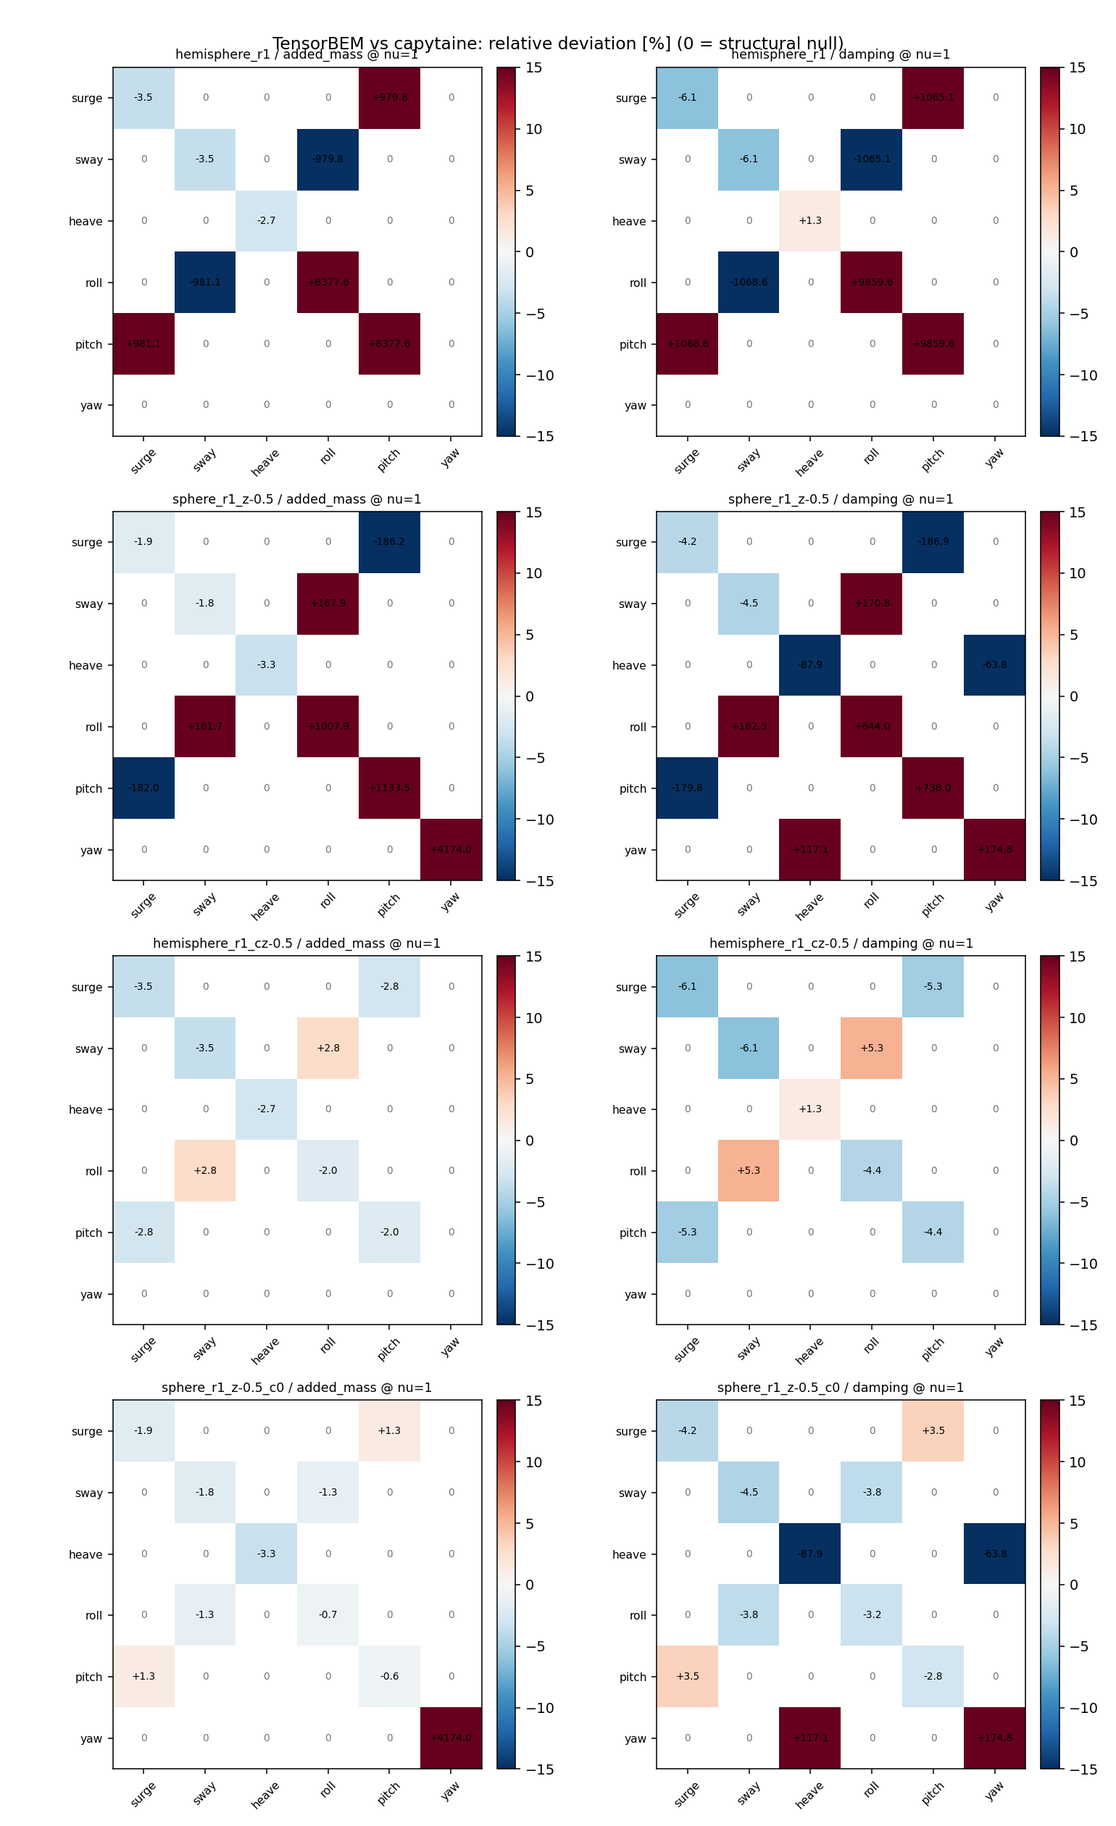
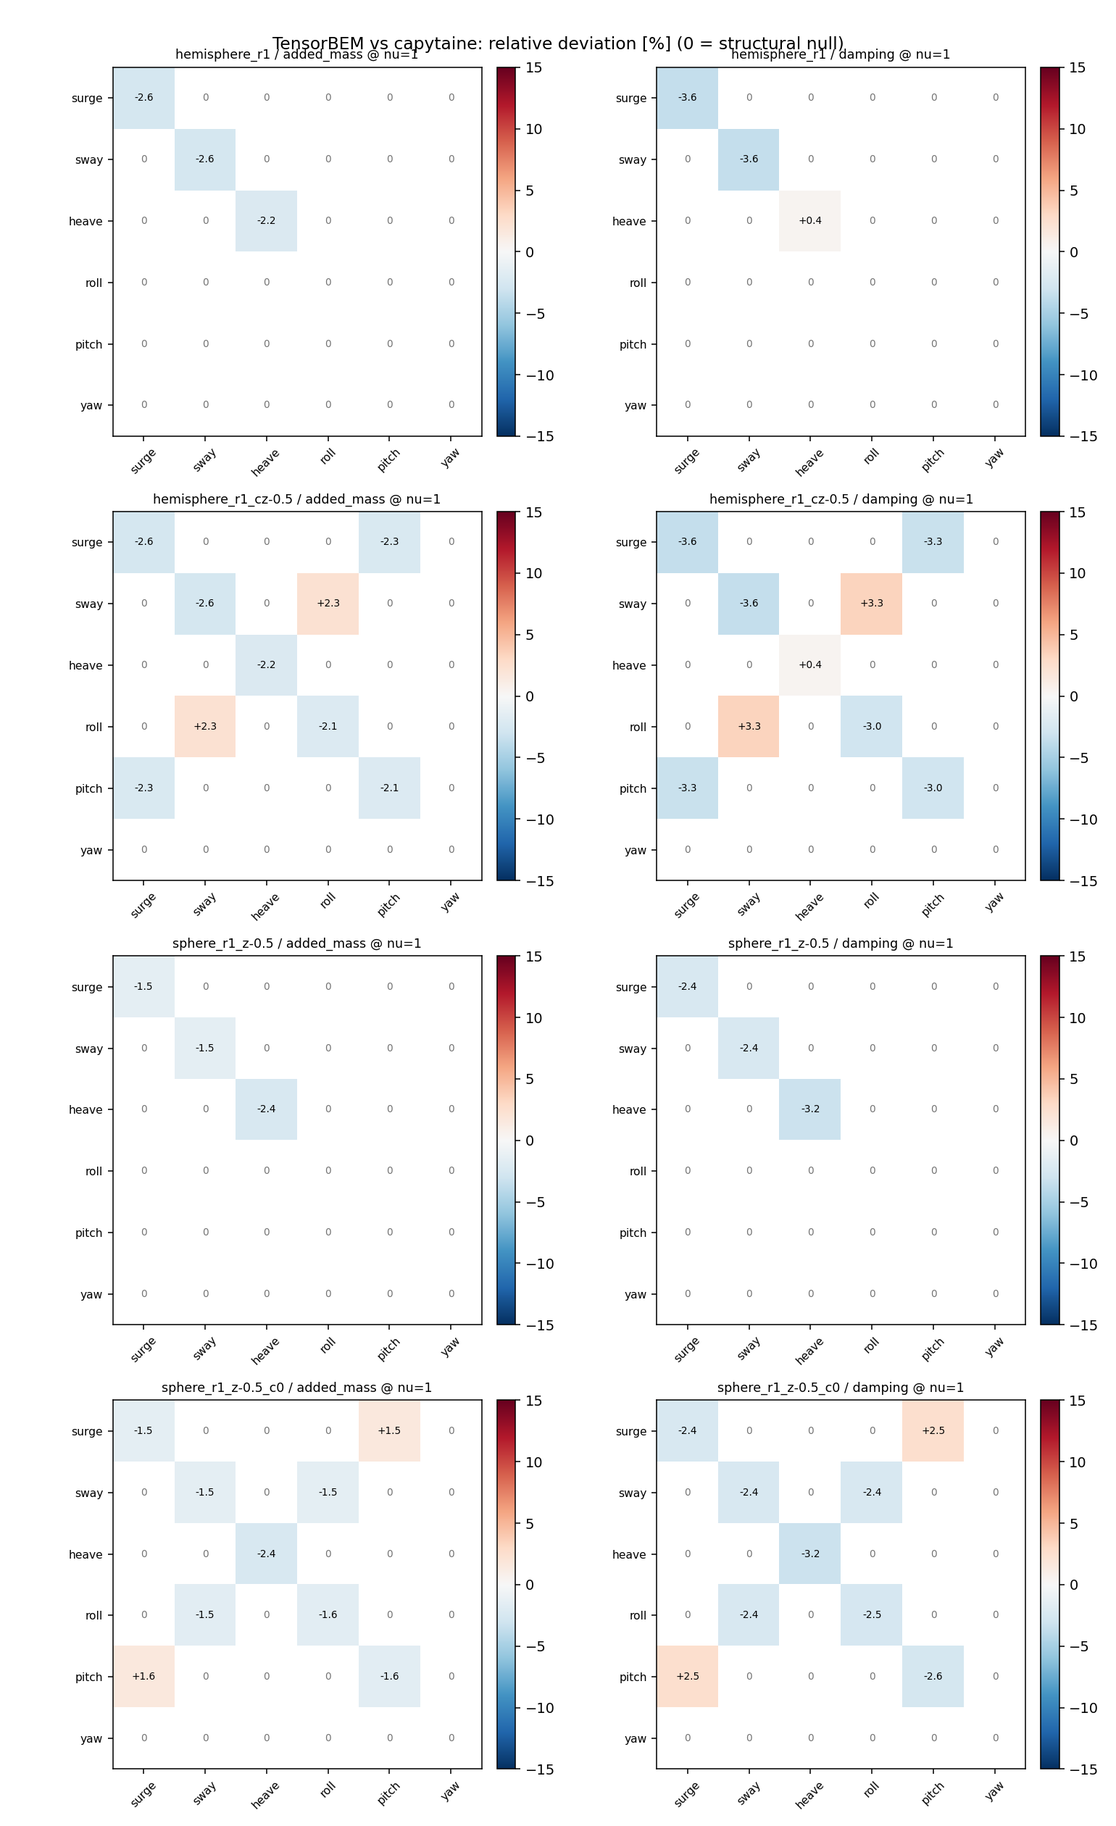
m21175: matured mission deliverables

diff --git a/src/tensorbem/benchmarks/capytaine_crosscheck_r2.py b/src/tensorbem/benchmarks/capytaine_crosscheck_r2.py
@@ -1176,7 +1176,7 @@ def render_document(study: dict[str, Any]) -> str:
             comparison["verdict"],
             TOL_DIAGONAL,
             TOL_OFFDIAGONAL,
-            100.0 * comparison["worst_active_relative"],
+            comparison["worst_active_relative"],
             comparison["worst_invariant_ratio"],
         )
     )
@@ -1231,7 +1231,7 @@ def render_document(study: dict[str, Any]) -> str:
                     entry["tensorbem"],
                     entry["capytaine"],
                     100.0 * entry["relative"],
-                    100.0 * entry["band"],
+                    entry["band"],
                 )
             )
         add("")
@@ -1372,7 +1372,7 @@ def render_document(study: dict[str, Any]) -> str:
             "**收敛到零的离散残差**还是**收敛到非零极限的实现错误**。"
         )
         add("")
-        add("| case | level | 面板 | ‖mode_roll‖ | ‖mode_yaw‖ | A_roll | A_surge,pitch | 最大 \|A\|/(rho L^k) |")
+        add("| case | level | 面板 | ‖mode_roll‖ | ‖mode_yaw‖ | A_roll | A_surge,pitch | 最大 \\|A\\|/(rho L^k) |")
         add("|---|---:|---:|---:|---:|---:|---:|---:|")
         for row in degeneracy["cases"]:
             for level in row["levels"]:

diff --git a/docs/capytaine_crosscheck_r2.md b/docs/capytaine_crosscheck_r2.md
@@ -32,7 +32,7 @@
 | sphere_r1_z-0.5 | 1026 | 1120 | 17 | 37 | 162 | 0 | 6.52% | 1.52e+00 | FAIL |
 | sphere_r1_z-0.5_c0 | 1026 | 1120 | 53 | 97 | 66 | 0 | 6.71% | 1.73e-02 | FAIL |
 
-总计 142 个 active 项、266 个相对阈下的结构零项与 456 个声明过的恒零项（不变式，上界 1%·ρL^k）被逐项判定，总体判定 **FAIL**（对角带 5%、耦合带 10%）；最差 active 相对偏差 670.52%，最差不变式比 1.52e+00。
+总计 142 个 active 项、266 个相对阈下的结构零项与 456 个声明过的恒零项（不变式，上界 1%·ρL^k）被逐项判定，总体判定 **FAIL**（对角带 5%、耦合带 10%）；最差 active 相对偏差 6.71%，最差不变式比 1.52e+00。
 
 ### 3.2 附加质量矩阵（六自由度，nu = 1 m^-1）
 
@@ -130,163 +130,163 @@
 
 | nu | quantity | (i,j) | TensorBEM | capytaine | 相对偏差 | 登记带 |
 |---:|---|---|---:|---:|---:|---:|
-| 0.5 | added_mass | (surge,surge) | 1375.9 | 1422.8 | -3.30% | 500% |
-| 0.5 | added_mass | (sway,sway) | 1375.9 | 1422.8 | -3.30% | 500% |
-| 0.5 | added_mass | (heave,heave) | 1256.8 | 1278.7 | -1.71% | 500% |
-| 0.5 | damping | (surge,surge) | 464.41 | 486.28 | -4.50% | 500% |
-| 0.5 | damping | (sway,sway) | 464.41 | 486.28 | -4.50% | 500% |
-| 0.5 | damping | (heave,heave) | 1611.3 | 1621.3 | -0.61% | 500% |
-| 1 | added_mass | (surge,surge) | 1228.1 | 1260.7 | -2.59% | 500% |
-| 1 | added_mass | (sway,sway) | 1228.1 | 1260.7 | -2.59% | 500% |
-| 1 | added_mass | (heave,heave) | 918.07 | 938.49 | -2.18% | 500% |
-| 1 | damping | (surge,surge) | 2355 | 2442.3 | -3.58% | 500% |
-| 1 | damping | (sway,sway) | 2355 | 2442.3 | -3.58% | 500% |
-| 1 | damping | (heave,heave) | 1674.9 | 1668.4 | +0.39% | 500% |
-| 2 | added_mass | (surge,surge) | 536.36 | 550.69 | -2.60% | 500% |
-| 2 | added_mass | (sway,sway) | 536.36 | 550.69 | -2.60% | 500% |
-| 2 | added_mass | (heave,heave) | 829.35 | 851.17 | -2.56% | 500% |
-| 2 | damping | (surge,surge) | 3236.6 | 3292.3 | -1.69% | 500% |
-| 2 | damping | (sway,sway) | 3236.6 | 3292.3 | -1.69% | 500% |
-| 2 | damping | (heave,heave) | 990.95 | 936.46 | +5.82% | 500% |
+| 0.5 | added_mass | (surge,surge) | 1375.9 | 1422.8 | -3.30% | 5% |
+| 0.5 | added_mass | (sway,sway) | 1375.9 | 1422.8 | -3.30% | 5% |
+| 0.5 | added_mass | (heave,heave) | 1256.8 | 1278.7 | -1.71% | 5% |
+| 0.5 | damping | (surge,surge) | 464.41 | 486.28 | -4.50% | 5% |
+| 0.5 | damping | (sway,sway) | 464.41 | 486.28 | -4.50% | 5% |
+| 0.5 | damping | (heave,heave) | 1611.3 | 1621.3 | -0.61% | 5% |
+| 1 | added_mass | (surge,surge) | 1228.1 | 1260.7 | -2.59% | 5% |
+| 1 | added_mass | (sway,sway) | 1228.1 | 1260.7 | -2.59% | 5% |
+| 1 | added_mass | (heave,heave) | 918.07 | 938.49 | -2.18% | 5% |
+| 1 | damping | (surge,surge) | 2355 | 2442.3 | -3.58% | 5% |
+| 1 | damping | (sway,sway) | 2355 | 2442.3 | -3.58% | 5% |
+| 1 | damping | (heave,heave) | 1674.9 | 1668.4 | +0.39% | 5% |
+| 2 | added_mass | (surge,surge) | 536.36 | 550.69 | -2.60% | 5% |
+| 2 | added_mass | (sway,sway) | 536.36 | 550.69 | -2.60% | 5% |
+| 2 | added_mass | (heave,heave) | 829.35 | 851.17 | -2.56% | 5% |
+| 2 | damping | (surge,surge) | 3236.6 | 3292.3 | -1.69% | 5% |
+| 2 | damping | (sway,sway) | 3236.6 | 3292.3 | -1.69% | 5% |
+| 2 | damping | (heave,heave) | 990.95 | 936.46 | +5.82% | 5% |
 
 **hemisphere_r1_cz-0.5**
 
 | nu | quantity | (i,j) | TensorBEM | capytaine | 相对偏差 | 登记带 |
 |---:|---|---|---:|---:|---:|---:|
-| 0.5 | added_mass | (surge,surge) | 1375.9 | 1422.8 | -3.30% | 500% |
-| 0.5 | added_mass | (surge,pitch) | 689.12 | 710.86 | -3.06% | 1000% |
-| 0.5 | added_mass | (sway,sway) | 1375.9 | 1422.8 | -3.30% | 500% |
-| 0.5 | added_mass | (sway,roll) | -689.12 | -710.86 | +3.06% | 1000% |
-| 0.5 | added_mass | (heave,heave) | 1256.8 | 1278.7 | -1.71% | 500% |
-| 0.5 | added_mass | (roll,sway) | -689.12 | -710.86 | +3.06% | 1000% |
-| 0.5 | added_mass | (roll,roll) | 345.16 | 355.15 | -2.81% | 500% |
-| 0.5 | added_mass | (pitch,surge) | 689.12 | 710.86 | -3.06% | 1000% |
-| 0.5 | added_mass | (pitch,pitch) | 345.16 | 355.15 | -2.81% | 500% |
-| 0.5 | damping | (surge,surge) | 464.41 | 486.28 | -4.50% | 500% |
-| 0.5 | damping | (surge,pitch) | 232.64 | 242.94 | -4.24% | 1000% |
-| 0.5 | damping | (sway,sway) | 464.41 | 486.28 | -4.50% | 500% |
-| 0.5 | damping | (sway,roll) | -232.64 | -242.94 | +4.24% | 1000% |
-| 0.5 | damping | (heave,heave) | 1611.3 | 1621.3 | -0.61% | 500% |
-| 0.5 | damping | (roll,sway) | -232.64 | -242.94 | +4.24% | 1000% |
-| 0.5 | damping | (roll,roll) | 116.54 | 121.37 | -3.98% | 500% |
-| 0.5 | damping | (pitch,surge) | 232.64 | 242.94 | -4.24% | 1000% |
-| 0.5 | damping | (pitch,pitch) | 116.54 | 121.37 | -3.98% | 500% |
-| 1 | added_mass | (surge,surge) | 1228.1 | 1260.7 | -2.59% | 500% |
-| 1 | added_mass | (surge,pitch) | 615.17 | 629.87 | -2.33% | 1000% |
-| 1 | added_mass | (sway,sway) | 1228.1 | 1260.7 | -2.59% | 500% |
-| 1 | added_mass | (sway,roll) | -615.17 | -629.87 | +2.33% | 1000% |
-| 1 | added_mass | (heave,heave) | 918.07 | 938.49 | -2.18% | 500% |
-| 1 | added_mass | (roll,sway) | -615.17 | -629.87 | +2.33% | 1000% |
-| 1 | added_mass | (roll,roll) | 308.16 | 314.69 | -2.08% | 500% |
-| 1 | added_mass | (pitch,surge) | 615.17 | 629.87 | -2.33% | 1000% |
-| 1 | added_mass | (pitch,pitch) | 308.16 | 314.69 | -2.08% | 500% |
-| 1 | damping | (surge,surge) | 2355 | 2442.3 | -3.58% | 500% |
-| 1 | damping | (surge,pitch) | 1180 | 1220.2 | -3.29% | 1000% |
-| 1 | damping | (sway,sway) | 2355 | 2442.3 | -3.58% | 500% |
-| 1 | damping | (sway,roll) | -1180 | -1220.2 | +3.29% | 1000% |
-| 1 | damping | (heave,heave) | 1674.9 | 1668.4 | +0.39% | 500% |
-| 1 | damping | (roll,sway) | -1180 | -1220.2 | +3.29% | 1000% |
-| 1 | damping | (roll,roll) | 591.28 | 609.57 | -3.00% | 500% |
-| 1 | damping | (pitch,surge) | 1180 | 1220.2 | -3.29% | 1000% |
-| 1 | damping | (pitch,pitch) | 591.28 | 609.57 | -3.00% | 500% |
-| 2 | added_mass | (surge,surge) | 536.36 | 550.69 | -2.60% | 500% |
-| 2 | added_mass | (surge,pitch) | 268.54 | 275.15 | -2.40% | 1000% |
-| 2 | added_mass | (sway,sway) | 536.36 | 550.69 | -2.60% | 500% |
-| 2 | added_mass | (sway,roll) | -268.54 | -275.15 | +2.40% | 1000% |
-| 2 | added_mass | (heave,heave) | 829.35 | 851.17 | -2.56% | 500% |
-| 2 | added_mass | (roll,sway) | -268.53 | -275.15 | +2.40% | 1000% |
-| 2 | added_mass | (roll,roll) | 134.45 | 137.48 | -2.20% | 500% |
-| 2 | added_mass | (pitch,surge) | 268.53 | 275.15 | -2.40% | 1000% |
-| 2 | added_mass | (pitch,pitch) | 134.45 | 137.48 | -2.20% | 500% |
-| 2 | damping | (surge,surge) | 3236.6 | 3292.3 | -1.69% | 500% |
-| 2 | damping | (surge,pitch) | 1622.6 | 1644.8 | -1.35% | 1000% |
-| 2 | damping | (sway,sway) | 3236.6 | 3292.3 | -1.69% | 500% |
-| 2 | damping | (sway,roll) | -1622.6 | -1644.8 | +1.35% | 1000% |
-| 2 | damping | (heave,heave) | 990.95 | 936.46 | +5.82% | 500% |
-| 2 | damping | (roll,sway) | -1622.6 | -1644.8 | +1.35% | 1000% |
-| 2 | damping | (roll,roll) | 813.46 | 821.74 | -1.01% | 500% |
-| 2 | damping | (pitch,surge) | 1622.6 | 1644.8 | -1.35% | 1000% |
-| 2 | damping | (pitch,pitch) | 813.46 | 821.74 | -1.01% | 500% |
+| 0.5 | added_mass | (surge,surge) | 1375.9 | 1422.8 | -3.30% | 5% |
+| 0.5 | added_mass | (surge,pitch) | 689.12 | 710.86 | -3.06% | 10% |
+| 0.5 | added_mass | (sway,sway) | 1375.9 | 1422.8 | -3.30% | 5% |
+| 0.5 | added_mass | (sway,roll) | -689.12 | -710.86 | +3.06% | 10% |
+| 0.5 | added_mass | (heave,heave) | 1256.8 | 1278.7 | -1.71% | 5% |
+| 0.5 | added_mass | (roll,sway) | -689.12 | -710.86 | +3.06% | 10% |
+| 0.5 | added_mass | (roll,roll) | 345.16 | 355.15 | -2.81% | 5% |
+| 0.5 | added_mass | (pitch,surge) | 689.12 | 710.86 | -3.06% | 10% |
+| 0.5 | added_mass | (pitch,pitch) | 345.16 | 355.15 | -2.81% | 5% |
+| 0.5 | damping | (surge,surge) | 464.41 | 486.28 | -4.50% | 5% |
+| 0.5 | damping | (surge,pitch) | 232.64 | 242.94 | -4.24% | 10% |
+| 0.5 | damping | (sway,sway) | 464.41 | 486.28 | -4.50% | 5% |
+| 0.5 | damping | (sway,roll) | -232.64 | -242.94 | +4.24% | 10% |
+| 0.5 | damping | (heave,heave) | 1611.3 | 1621.3 | -0.61% | 5% |
+| 0.5 | damping | (roll,sway) | -232.64 | -242.94 | +4.24% | 10% |
+| 0.5 | damping | (roll,roll) | 116.54 | 121.37 | -3.98% | 5% |
+| 0.5 | damping | (pitch,surge) | 232.64 | 242.94 | -4.24% | 10% |
+| 0.5 | damping | (pitch,pitch) | 116.54 | 121.37 | -3.98% | 5% |
+| 1 | added_mass | (surge,surge) | 1228.1 | 1260.7 | -2.59% | 5% |
+| 1 | added_mass | (surge,pitch) | 615.17 | 629.87 | -2.33% | 10% |
+| 1 | added_mass | (sway,sway) | 1228.1 | 1260.7 | -2.59% | 5% |
+| 1 | added_mass | (sway,roll) | -615.17 | -629.87 | +2.33% | 10% |
+| 1 | added_mass | (heave,heave) | 918.07 | 938.49 | -2.18% | 5% |
+| 1 | added_mass | (roll,sway) | -615.17 | -629.87 | +2.33% | 10% |
+| 1 | added_mass | (roll,roll) | 308.16 | 314.69 | -2.08% | 5% |
+| 1 | added_mass | (pitch,surge) | 615.17 | 629.87 | -2.33% | 10% |
+| 1 | added_mass | (pitch,pitch) | 308.16 | 314.69 | -2.08% | 5% |
+| 1 | damping | (surge,surge) | 2355 | 2442.3 | -3.58% | 5% |
+| 1 | damping | (surge,pitch) | 1180 | 1220.2 | -3.29% | 10% |
+| 1 | damping | (sway,sway) | 2355 | 2442.3 | -3.58% | 5% |
+| 1 | damping | (sway,roll) | -1180 | -1220.2 | +3.29% | 10% |
+| 1 | damping | (heave,heave) | 1674.9 | 1668.4 | +0.39% | 5% |
+| 1 | damping | (roll,sway) | -1180 | -1220.2 | +3.29% | 10% |
+| 1 | damping | (roll,roll) | 591.28 | 609.57 | -3.00% | 5% |
+| 1 | damping | (pitch,surge) | 1180 | 1220.2 | -3.29% | 10% |
+| 1 | damping | (pitch,pitch) | 591.28 | 609.57 | -3.00% | 5% |
+| 2 | added_mass | (surge,surge) | 536.36 | 550.69 | -2.60% | 5% |
+| 2 | added_mass | (surge,pitch) | 268.54 | 275.15 | -2.40% | 10% |
+| 2 | added_mass | (sway,sway) | 536.36 | 550.69 | -2.60% | 5% |
+| 2 | added_mass | (sway,roll) | -268.54 | -275.15 | +2.40% | 10% |
+| 2 | added_mass | (heave,heave) | 829.35 | 851.17 | -2.56% | 5% |
+| 2 | added_mass | (roll,sway) | -268.53 | -275.15 | +2.40% | 10% |
+| 2 | added_mass | (roll,roll) | 134.45 | 137.48 | -2.20% | 5% |
+| 2 | added_mass | (pitch,surge) | 268.53 | 275.15 | -2.40% | 10% |
+| 2 | added_mass | (pitch,pitch) | 134.45 | 137.48 | -2.20% | 5% |
+| 2 | damping | (surge,surge) | 3236.6 | 3292.3 | -1.69% | 5% |
+| 2 | damping | (surge,pitch) | 1622.6 | 1644.8 | -1.35% | 10% |
+| 2 | damping | (sway,sway) | 3236.6 | 3292.3 | -1.69% | 5% |
+| 2 | damping | (sway,roll) | -1622.6 | -1644.8 | +1.35% | 10% |
+| 2 | damping | (heave,heave) | 990.95 | 936.46 | +5.82% | 5% |
+| 2 | damping | (roll,sway) | -1622.6 | -1644.8 | +1.35% | 10% |
+| 2 | damping | (roll,roll) | 813.46 | 821.74 | -1.01% | 5% |
+| 2 | damping | (pitch,surge) | 1622.6 | 1644.8 | -1.35% | 10% |
+| 2 | damping | (pitch,pitch) | 813.46 | 821.74 | -1.01% | 5% |
 
 **sphere_r1_z-0.5**
 
 | nu | quantity | (i,j) | TensorBEM | capytaine | 相对偏差 | 登记带 |
 |---:|---|---|---:|---:|---:|---:|
-| 0.5 | added_mass | (surge,surge) | 3152.9 | 3247.2 | -2.90% | 500% |
-| 0.5 | added_mass | (sway,sway) | 3153.1 | 3247.2 | -2.90% | 500% |
-| 0.5 | added_mass | (heave,heave) | 1129.4 | 1157.4 | -2.42% | 500% |
-| 0.5 | damping | (surge,surge) | 1623.6 | 1697 | -4.32% | 500% |
-| 0.5 | damping | (sway,sway) | 1623.8 | 1697 | -4.31% | 500% |
-| 0.5 | damping | (heave,heave) | 267.33 | 275.27 | -2.88% | 500% |
-| 1 | added_mass | (surge,surge) | 2071.8 | 2102.6 | -1.47% | 500% |
-| 1 | added_mass | (sway,sway) | 2071.5 | 2102.6 | -1.48% | 500% |
-| 1 | added_mass | (heave,heave) | 1200.5 | 1229.7 | -2.37% | 500% |
-| 1 | damping | (surge,surge) | 7598 | 7785.6 | -2.41% | 500% |
-| 1 | damping | (sway,sway) | 7599.1 | 7785.6 | -2.40% | 500% |
-| 2 | added_mass | (surge,surge) | 327.89 | 350.66 | -6.49% | 500% |
-| 2 | added_mass | (sway,sway) | 327.79 | 350.66 | -6.52% | 500% |
-| 2 | added_mass | (heave,heave) | 1252.5 | 1284 | -2.45% | 500% |
-| 2 | damping | (surge,surge) | 5074.3 | 5137.4 | -1.23% | 500% |
-| 2 | damping | (sway,sway) | 5073.4 | 5137.4 | -1.24% | 500% |
-| 2 | damping | (heave,heave) | 401.01 | 417.3 | -3.90% | 500% |
+| 0.5 | added_mass | (surge,surge) | 3152.9 | 3247.2 | -2.90% | 5% |
+| 0.5 | added_mass | (sway,sway) | 3153.1 | 3247.2 | -2.90% | 5% |
+| 0.5 | added_mass | (heave,heave) | 1129.4 | 1157.4 | -2.42% | 5% |
+| 0.5 | damping | (surge,surge) | 1623.6 | 1697 | -4.32% | 5% |
+| 0.5 | damping | (sway,sway) | 1623.8 | 1697 | -4.31% | 5% |
+| 0.5 | damping | (heave,heave) | 267.33 | 275.27 | -2.88% | 5% |
+| 1 | added_mass | (surge,surge) | 2071.8 | 2102.6 | -1.47% | 5% |
+| 1 | added_mass | (sway,sway) | 2071.5 | 2102.6 | -1.48% | 5% |
+| 1 | added_mass | (heave,heave) | 1200.5 | 1229.7 | -2.37% | 5% |
+| 1 | damping | (surge,surge) | 7598 | 7785.6 | -2.41% | 5% |
+| 1 | damping | (sway,sway) | 7599.1 | 7785.6 | -2.40% | 5% |
+| 2 | added_mass | (surge,surge) | 327.89 | 350.66 | -6.49% | 5% |
+| 2 | added_mass | (sway,sway) | 327.79 | 350.66 | -6.52% | 5% |
+| 2 | added_mass | (heave,heave) | 1252.5 | 1284 | -2.45% | 5% |
+| 2 | damping | (surge,surge) | 5074.3 | 5137.4 | -1.23% | 5% |
+| 2 | damping | (sway,sway) | 5073.4 | 5137.4 | -1.24% | 5% |
+| 2 | damping | (heave,heave) | 401.01 | 417.3 | -3.90% | 5% |
 
 **sphere_r1_z-0.5_c0**
 
 | nu | quantity | (i,j) | TensorBEM | capytaine | 相对偏差 | 登记带 |
 |---:|---|---|---:|---:|---:|---:|
-| 0.5 | added_mass | (surge,surge) | 3152.9 | 3247.2 | -2.90% | 500% |
-| 0.5 | added_mass | (surge,pitch) | -1579.7 | -1628.1 | +2.97% | 1000% |
-| 0.5 | added_mass | (sway,sway) | 3153.1 | 3247.2 | -2.90% | 500% |
-| 0.5 | added_mass | (sway,roll) | 1580.2 | 1628.1 | -2.94% | 1000% |
-| 0.5 | added_mass | (heave,heave) | 1129.4 | 1157.4 | -2.42% | 500% |
-| 0.5 | added_mass | (roll,sway) | 1580.2 | 1628.2 | -2.95% | 1000% |
-| 0.5 | added_mass | (roll,roll) | 791.97 | 816.38 | -2.99% | 500% |
-| 0.5 | added_mass | (pitch,surge) | -1579.7 | -1628.2 | +2.98% | 1000% |
-| 0.5 | added_mass | (pitch,pitch) | 791.46 | 816.38 | -3.05% | 500% |
-| 0.5 | damping | (surge,surge) | 1623.6 | 1697 | -4.32% | 500% |
-| 0.5 | damping | (surge,pitch) | -813.45 | -850.81 | +4.39% | 1000% |
-| 0.5 | damping | (sway,sway) | 1623.8 | 1697 | -4.31% | 500% |
-| 0.5 | damping | (sway,roll) | 813.8 | 850.81 | -4.35% | 1000% |
-| 0.5 | damping | (heave,heave) | 267.33 | 275.27 | -2.88% | 500% |
-| 0.5 | damping | (roll,sway) | 813.8 | 850.91 | -4.36% | 1000% |
-| 0.5 | damping | (roll,roll) | 407.85 | 426.62 | -4.40% | 500% |
-| 0.5 | damping | (pitch,surge) | -813.45 | -850.91 | +4.40% | 1000% |
-| 0.5 | damping | (pitch,pitch) | 407.54 | 426.62 | -4.47% | 500% |
-| 1 | added_mass | (surge,surge) | 2071.8 | 2102.6 | -1.47% | 500% |
-| 1 | added_mass | (surge,pitch) | -1038.4 | -1054.7 | +1.54% | 1000% |
-| 1 | added_mass | (sway,sway) | 2071.5 | 2102.6 | -1.48% | 500% |
-| 1 | added_mass | (sway,roll) | 1038.6 | 1054.7 | -1.52% | 1000% |
-| 1 | added_mass | (heave,heave) | 1200.5 | 1229.7 | -2.37% | 500% |
-| 1 | added_mass | (roll,sway) | 1038.6 | 1054.8 | -1.53% | 1000% |
-| 1 | added_mass | (roll,roll) | 520.77 | 529.11 | -1.58% | 500% |
-| 1 | added_mass | (pitch,surge) | -1038.4 | -1054.8 | +1.55% | 1000% |
-| 1 | added_mass | (pitch,pitch) | 520.49 | 529.11 | -1.63% | 500% |
-| 1 | damping | (surge,surge) | 7598 | 7785.6 | -2.41% | 500% |
-| 1 | damping | (surge,pitch) | -3809.4 | -3906.6 | +2.49% | 1000% |
-| 1 | damping | (sway,sway) | 7599.1 | 7785.6 | -2.40% | 500% |
-| 1 | damping | (sway,roll) | 3811.5 | 3906.6 | -2.43% | 1000% |
-| 1 | damping | (roll,sway) | 3811.6 | 3907.3 | -2.45% | 1000% |
-| 1 | damping | (roll,roll) | 1911.8 | 1960.6 | -2.49% | 500% |
-| 1 | damping | (pitch,surge) | -3809.4 | -3907.3 | +2.50% | 1000% |
-| 1 | damping | (pitch,pitch) | 1909.9 | 1960.6 | -2.58% | 500% |
-| 2 | added_mass | (surge,surge) | 327.89 | 350.66 | -6.49% | 500% |
-| 2 | added_mass | (surge,pitch) | -163.44 | -174.85 | +6.53% | 1000% |
-| 2 | added_mass | (sway,sway) | 327.79 | 350.66 | -6.52% | 500% |
-| 2 | added_mass | (sway,roll) | 163.27 | 174.85 | -6.62% | 1000% |
-| 2 | added_mass | (heave,heave) | 1252.5 | 1284 | -2.45% | 500% |
-| 2 | added_mass | (roll,sway) | 163.27 | 174.82 | -6.61% | 1000% |
-| 2 | added_mass | (roll,roll) | 81.335 | 87.181 | -6.71% | 500% |
-| 2 | added_mass | (pitch,surge) | -163.45 | -174.82 | +6.51% | 1000% |
-| 2 | added_mass | (pitch,pitch) | 81.483 | 87.181 | -6.54% | 500% |
-| 2 | damping | (surge,surge) | 5074.3 | 5137.4 | -1.23% | 500% |
-| 2 | damping | (surge,pitch) | -2549.1 | -2583.5 | +1.33% | 1000% |
-| 2 | damping | (sway,sway) | 5073.4 | 5137.4 | -1.24% | 500% |
-| 2 | damping | (sway,roll) | 2550.2 | 2583.5 | -1.29% | 1000% |
-| 2 | damping | (heave,heave) | 401.01 | 417.3 | -3.90% | 500% |
-| 2 | damping | (roll,sway) | 2550.2 | 2584.2 | -1.32% | 1000% |
-| 2 | damping | (roll,roll) | 1281.9 | 1299.6 | -1.36% | 500% |
-| 2 | damping | (pitch,surge) | -2549.1 | -2584.2 | +1.36% | 1000% |
-| 2 | damping | (pitch,pitch) | 1280.6 | 1299.6 | -1.46% | 500% |
+| 0.5 | added_mass | (surge,surge) | 3152.9 | 3247.2 | -2.90% | 5% |
+| 0.5 | added_mass | (surge,pitch) | -1579.7 | -1628.1 | +2.97% | 10% |
+| 0.5 | added_mass | (sway,sway) | 3153.1 | 3247.2 | -2.90% | 5% |
+| 0.5 | added_mass | (sway,roll) | 1580.2 | 1628.1 | -2.94% | 10% |
+| 0.5 | added_mass | (heave,heave) | 1129.4 | 1157.4 | -2.42% | 5% |
+| 0.5 | added_mass | (roll,sway) | 1580.2 | 1628.2 | -2.95% | 10% |
+| 0.5 | added_mass | (roll,roll) | 791.97 | 816.38 | -2.99% | 5% |
+| 0.5 | added_mass | (pitch,surge) | -1579.7 | -1628.2 | +2.98% | 10% |
+| 0.5 | added_mass | (pitch,pitch) | 791.46 | 816.38 | -3.05% | 5% |
+| 0.5 | damping | (surge,surge) | 1623.6 | 1697 | -4.32% | 5% |
+| 0.5 | damping | (surge,pitch) | -813.45 | -850.81 | +4.39% | 10% |
+| 0.5 | damping | (sway,sway) | 1623.8 | 1697 | -4.31% | 5% |
+| 0.5 | damping | (sway,roll) | 813.8 | 850.81 | -4.35% | 10% |
+| 0.5 | damping | (heave,heave) | 267.33 | 275.27 | -2.88% | 5% |
+| 0.5 | damping | (roll,sway) | 813.8 | 850.91 | -4.36% | 10% |
+| 0.5 | damping | (roll,roll) | 407.85 | 426.62 | -4.40% | 5% |
+| 0.5 | damping | (pitch,surge) | -813.45 | -850.91 | +4.40% | 10% |
+| 0.5 | damping | (pitch,pitch) | 407.54 | 426.62 | -4.47% | 5% |
+| 1 | added_mass | (surge,surge) | 2071.8 | 2102.6 | -1.47% | 5% |
+| 1 | added_mass | (surge,pitch) | -1038.4 | -1054.7 | +1.54% | 10% |
+| 1 | added_mass | (sway,sway) | 2071.5 | 2102.6 | -1.48% | 5% |
+| 1 | added_mass | (sway,roll) | 1038.6 | 1054.7 | -1.52% | 10% |
+| 1 | added_mass | (heave,heave) | 1200.5 | 1229.7 | -2.37% | 5% |
+| 1 | added_mass | (roll,sway) | 1038.6 | 1054.8 | -1.53% | 10% |
+| 1 | added_mass | (roll,roll) | 520.77 | 529.11 | -1.58% | 5% |
+| 1 | added_mass | (pitch,surge) | -1038.4 | -1054.8 | +1.55% | 10% |
+| 1 | added_mass | (pitch,pitch) | 520.49 | 529.11 | -1.63% | 5% |
+| 1 | damping | (surge,surge) | 7598 | 7785.6 | -2.41% | 5% |
+| 1 | damping | (surge,pitch) | -3809.4 | -3906.6 | +2.49% | 10% |
+| 1 | damping | (sway,sway) | 7599.1 | 7785.6 | -2.40% | 5% |
+| 1 | damping | (sway,roll) | 3811.5 | 3906.6 | -2.43% | 10% |
+| 1 | damping | (roll,sway) | 3811.6 | 3907.3 | -2.45% | 10% |
+| 1 | damping | (roll,roll) | 1911.8 | 1960.6 | -2.49% | 5% |
+| 1 | damping | (pitch,surge) | -3809.4 | -3907.3 | +2.50% | 10% |
+| 1 | damping | (pitch,pitch) | 1909.9 | 1960.6 | -2.58% | 5% |
+| 2 | added_mass | (surge,surge) | 327.89 | 350.66 | -6.49% | 5% |
+| 2 | added_mass | (surge,pitch) | -163.44 | -174.85 | +6.53% | 10% |
+| 2 | added_mass | (sway,sway) | 327.79 | 350.66 | -6.52% | 5% |
+| 2 | added_mass | (sway,roll) | 163.27 | 174.85 | -6.62% | 10% |
+| 2 | added_mass | (heave,heave) | 1252.5 | 1284 | -2.45% | 5% |
+| 2 | added_mass | (roll,sway) | 163.27 | 174.82 | -6.61% | 10% |
+| 2 | added_mass | (roll,roll) | 81.335 | 87.181 | -6.71% | 5% |
+| 2 | added_mass | (pitch,surge) | -163.45 | -174.82 | +6.51% | 10% |
+| 2 | added_mass | (pitch,pitch) | 81.483 | 87.181 | -6.54% | 5% |
+| 2 | damping | (surge,surge) | 5074.3 | 5137.4 | -1.23% | 5% |
+| 2 | damping | (surge,pitch) | -2549.1 | -2583.5 | +1.33% | 10% |
+| 2 | damping | (sway,sway) | 5073.4 | 5137.4 | -1.24% | 5% |
+| 2 | damping | (sway,roll) | 2550.2 | 2583.5 | -1.29% | 10% |
+| 2 | damping | (heave,heave) | 401.01 | 417.3 | -3.90% | 5% |
+| 2 | damping | (roll,sway) | 2550.2 | 2584.2 | -1.32% | 10% |
+| 2 | damping | (roll,roll) | 1281.9 | 1299.6 | -1.36% | 5% |
+| 2 | damping | (pitch,surge) | -2549.1 | -2584.2 | +1.36% | 10% |
+| 2 | damping | (pitch,pitch) | 1280.6 | 1299.6 | -1.46% | 5% |
 
 ### 3.4 结构零项（几何禁止非零的项）
 
